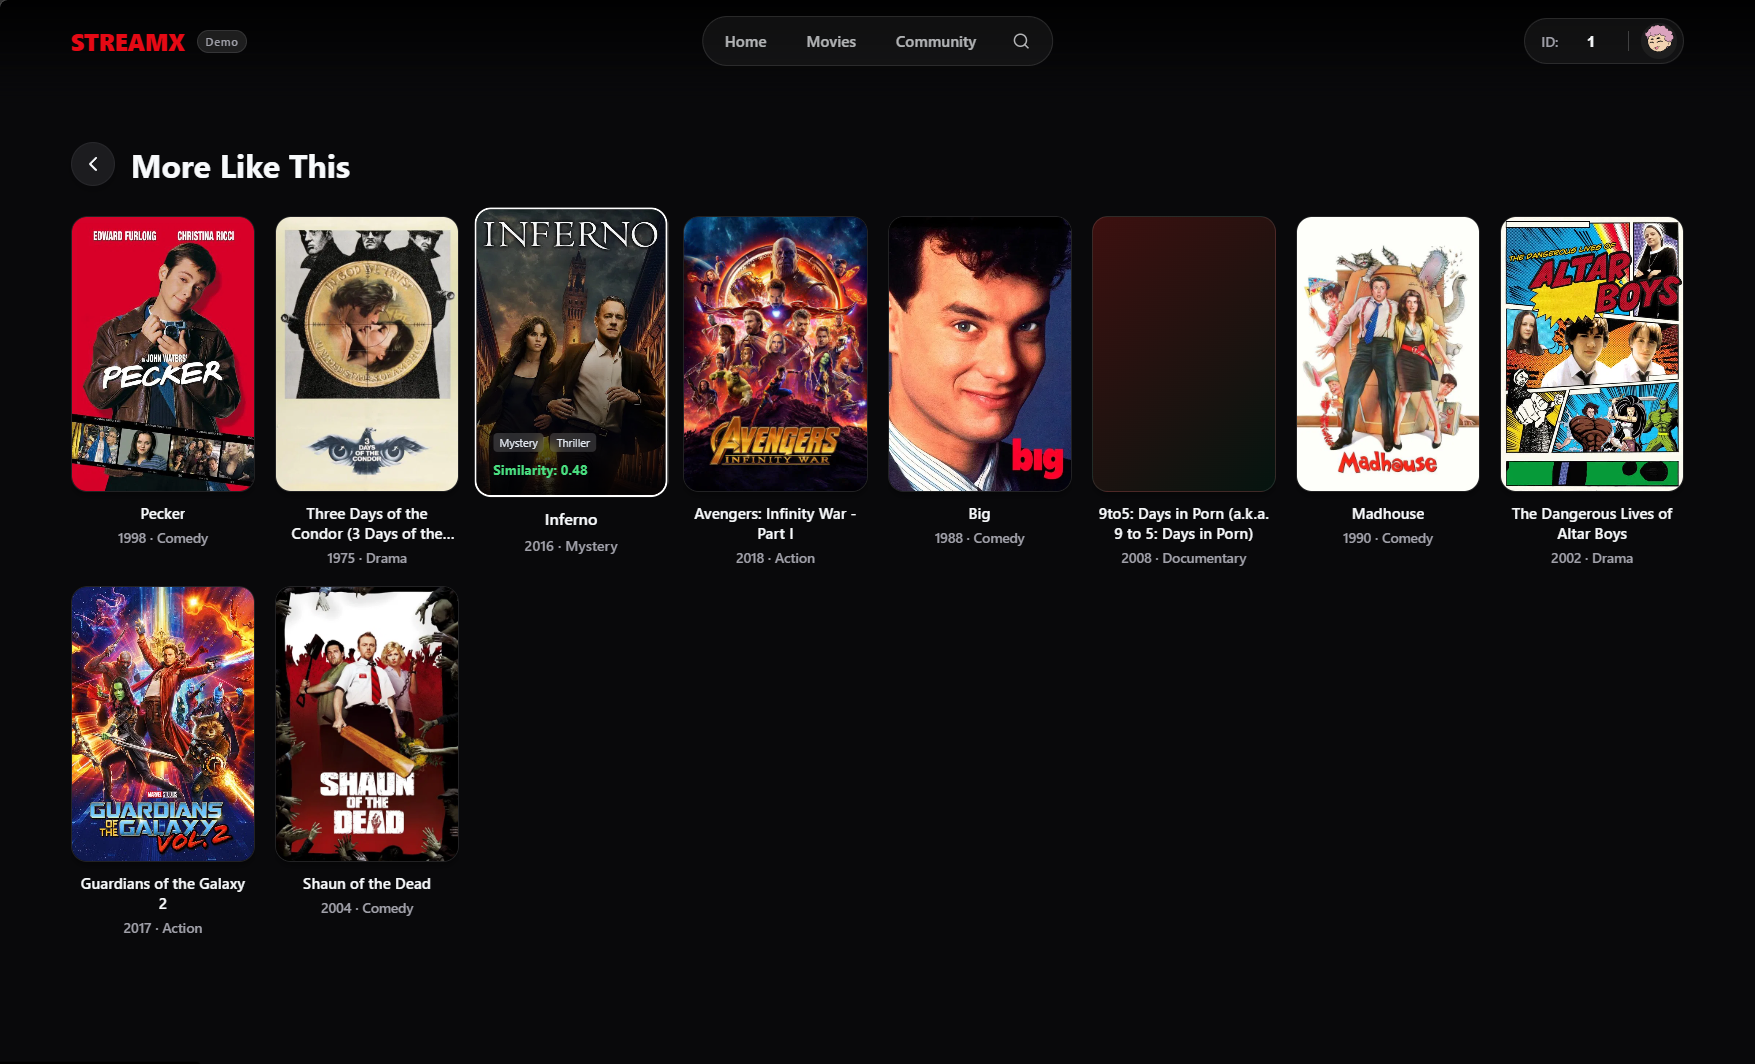
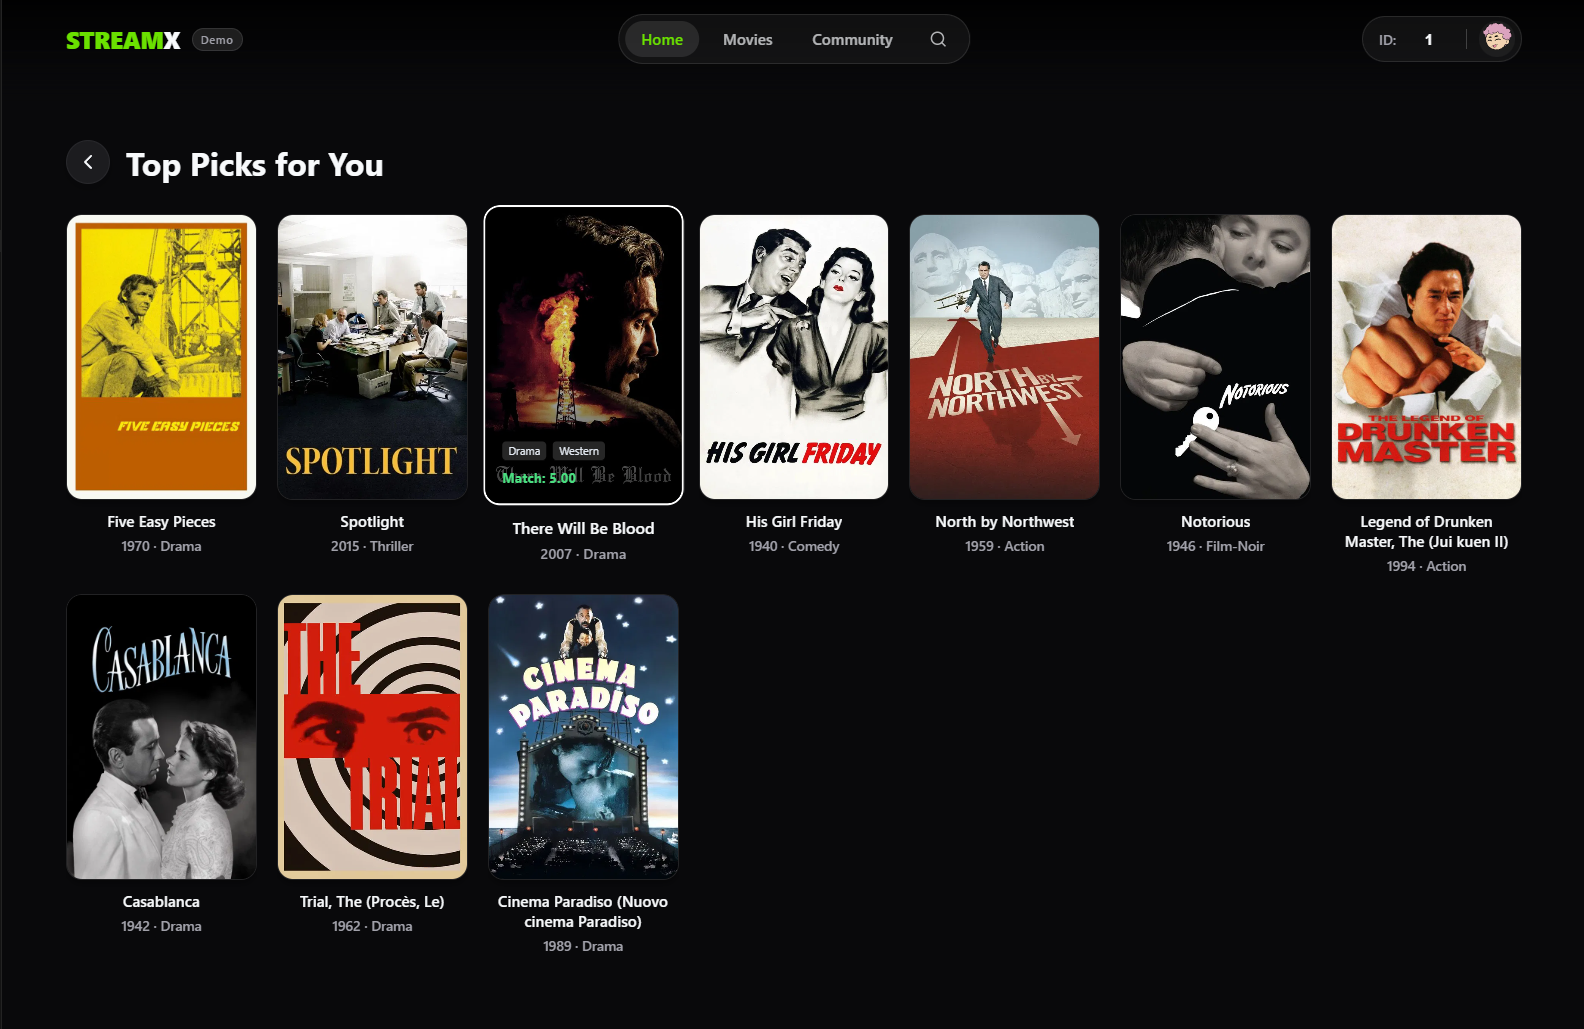
Update Default Brand color

diff --git a/frontend/app/globals.css b/frontend/app/globals.css
@@ -7,8 +7,8 @@
   --text-main: #f8fafc;
   --text-subtle: #a1a1aa;
   --border-soft: rgba(255, 255, 255, 0.1);
-  --brand: #e50914;
-  --brand-hover: #b91c1c;
+  --brand: #6ae100;
+  --brand-hover: #55b400;
 }
 
 * {
@@ -82,12 +82,22 @@ body {
 }
 
 .brand-link {
-  color: var(--brand);
+  color: var(--text-main);
   font-weight: 800;
   text-decoration: none;
   font-size: 1.5rem;
   letter-spacing: -0.02em;
   text-transform: uppercase;
+  transition: transform 0.2s cubic-bezier(0.25, 1, 0.5, 1);
+  display: inline-block;
+}
+
+.brand-link:hover {
+  transform: scale(1.05);
+}
+
+.brand-link:active {
+  transform: scale(0.95);
 }
 
 .option-badge {
@@ -128,14 +138,20 @@ body {
   text-decoration: none;
   font-size: 0.95rem;
   opacity: 0.7;
-  transition: all 0.2s;
+  transition: all 0.2s cubic-bezier(0.25, 1, 0.5, 1);
   padding: 8px 16px;
   border-radius: 999px;
+  display: inline-block;
 }
 
 .nav-link:hover {
   opacity: 1;
   background: rgba(255, 255, 255, 0.05);
+  transform: scale(1.05);
+}
+
+.nav-link:active {
+  transform: scale(0.95);
 }
 
 .nav-link.active {
@@ -150,7 +166,7 @@ body {
   color: var(--text-main);
   text-decoration: none;
   opacity: 0.7;
-  transition: all 0.2s;
+  transition: all 0.2s cubic-bezier(0.25, 1, 0.5, 1);
   padding: 8px 16px; /* Match horizontal padding of other nav links */
   border-radius: 999px; /* Pill shape like other links instead of circle */
   display: flex;
@@ -162,6 +178,11 @@ body {
 .nav-icon-link:hover {
   opacity: 1;
   background: rgba(255, 255, 255, 0.1);
+  transform: scale(1.05);
+}
+
+.nav-icon-link:active {
+  transform: scale(0.95);
 }
 
 .nav-right {
@@ -735,7 +756,7 @@ body {
 .btn-search:hover {
   background: var(--brand-hover);
   transform: translateY(-2px);
-  box-shadow: 0 4px 12px rgba(229, 9, 20, 0.4);
+  box-shadow: 0 4px 12px rgba(106, 225, 0, 0.4);
 }
 .btn-search:active {
   transform: scale(0.98);
@@ -928,7 +949,7 @@ body {
 .pagination input[type="number"]:focus {
   background: rgba(255, 255, 255, 0.1);
   border-color: var(--brand);
-  box-shadow: 0 0 0 2px rgba(229, 9, 20, 0.2);
+  box-shadow: 0 0 0 2px rgba(106, 225, 0, 0.2);
 }
 
 /* Hide arrows for pagination number input */
@@ -1030,7 +1051,7 @@ body {
 .search-btn:hover {
   background: var(--brand-hover);
   transform: scale(1.05);
-  box-shadow: 0 4px 12px rgba(229, 9, 20, 0.4);
+  box-shadow: 0 4px 12px rgba(106, 225, 0, 0.4);
 }
 .search-btn:active {
   transform: scale(0.95);
@@ -1722,7 +1743,7 @@ body {
   width: 50px;
   height: 50px;
   border-radius: 25px;
-  background: rgba(229, 9, 20, 0.9);
+  background: rgba(106, 225, 0, 0.9);
   color: white;
   border: 1px solid rgba(255, 255, 255, 0.2);
   display: flex;
@@ -1734,7 +1755,7 @@ body {
   visibility: hidden;
   transform: translateY(20px);
   transition: all 0.3s cubic-bezier(0.25, 1, 0.5, 1);
-  box-shadow: 0 4px 16px rgba(229, 9, 20, 0.4);
+  box-shadow: 0 4px 16px rgba(106, 225, 0, 0.4);
   backdrop-filter: blur(8px);
   -webkit-backdrop-filter: blur(8px);
 }
@@ -1748,7 +1769,7 @@ body {
 .scroll-to-top:hover {
   background: var(--brand-hover);
   transform: translateY(-4px);
-  box-shadow: 0 8px 24px rgba(229, 9, 20, 0.6);
+  box-shadow: 0 8px 24px rgba(106, 225, 0, 0.6);
 }
 
 .scroll-to-top:active {

diff --git a/frontend/components/navbar.tsx b/frontend/components/navbar.tsx
@@ -2,13 +2,14 @@
 
 import { useEffect, useState } from "react";
 import NextLink from "next/link";
-import { usePathname } from "next/navigation";
+import { usePathname, useSearchParams } from "next/navigation";
 import { useUser } from "../context/user-context";
 
 export default function AppNavbar() {
   const [isScrolled, setIsScrolled] = useState(false);
   const [isMenuOpen, setIsMenuOpen] = useState(false);
   const pathname = usePathname();
+  const searchParams = useSearchParams();
   const { userId, setUserId } = useUser();
   const [inputId, setInputId] = useState(userId.toString());
 
@@ -36,10 +37,21 @@ export default function AppNavbar() {
   }, [isMenuOpen]);
 
   const isActive = (path: string) => {
-    if (path === "/") {
-      return pathname === "/";
+    // If we are on a collection page, use the 'from' query param to determine active state
+    let effectivePathname = pathname;
+    if (pathname.startsWith("/collection")) {
+      const from = searchParams.get("from");
+      if (from) {
+        effectivePathname = from;
+      } else {
+        effectivePathname = "/"; // Default to home if no 'from' param
+      }
     }
-    return pathname.startsWith(path);
+
+    if (path === "/") {
+      return effectivePathname === "/";
+    }
+    return effectivePathname.startsWith(path);
   };
 
   const handleUserChange = (e: React.FormEvent) => {
@@ -59,7 +71,7 @@ export default function AppNavbar() {
       <div className="simple-nav">
         <div className="brand-wrap">
           <NextLink href="/" className="brand-link" onClick={() => setIsMenuOpen(false)}>
-            STREAMX
+            <span style={{ color: 'var(--brand)' }}>STREAM</span>X
           </NextLink>
           <span className="option-badge">Demo</span>
         </div>

diff --git a/frontend/components/movie-card-grid.tsx b/frontend/components/movie-card-grid.tsx
@@ -2,7 +2,7 @@
 
 import { useRef } from "react";
 import NextLink from "next/link";
-import { useRouter } from "next/navigation";
+import { useRouter, usePathname } from "next/navigation";
 
 export type MovieCardItem = {
   item_id: number;
@@ -47,11 +47,18 @@ export default function MovieCardGrid({
 }: MovieCardGridProps) {
   const rowRef = useRef<HTMLDivElement>(null);
   const router = useRouter();
+  const pathname = usePathname();
 
   const handleCollectionClick = () => {
     if (typeof window !== 'undefined') {
       sessionStorage.setItem('collectionData', JSON.stringify({ title, items, scoreLabel }));
-      router.push('/collection');
+      
+      // Determine base path for the 'from' query parameter to keep correct navbar highlight
+      let fromPath = '/';
+      if (pathname.startsWith('/movies')) fromPath = '/movies';
+      else if (pathname.startsWith('/users')) fromPath = '/users';
+      
+      router.push(`/collection?from=${fromPath}`);
     }
   };
 

diff --git a/frontend/app/layout.tsx b/frontend/app/layout.tsx
@@ -1,6 +1,7 @@
 import type { Metadata } from "next";
 import type { ReactNode } from "react";
 import "./globals.css";
+import { Suspense } from "react";
 import AppNavbar from "../components/navbar";
 import { UserProvider } from "../context/user-context";
 import ScrollToTop from "../components/scroll-to-top";
@@ -9,7 +10,7 @@ export const metadata: Metadata = {
   title: "StreamX | Personalized Movie Recommendations",
   description: "Discover your next favorite movie with StreamX, powered by advanced Matrix Factorization.",
   icons: {
-    icon: "/icon.svg",
+    icon: "/icon.png",
   },
 };
 
@@ -18,7 +19,9 @@ export default function RootLayout({ children }: { children: ReactNode }) {
     <html lang="en" className="dark">
       <body>
         <UserProvider>
-          <AppNavbar />
+          <Suspense fallback={null}>
+            <AppNavbar />
+          </Suspense>
           <main className="page-container">
             {children}
           </main>
